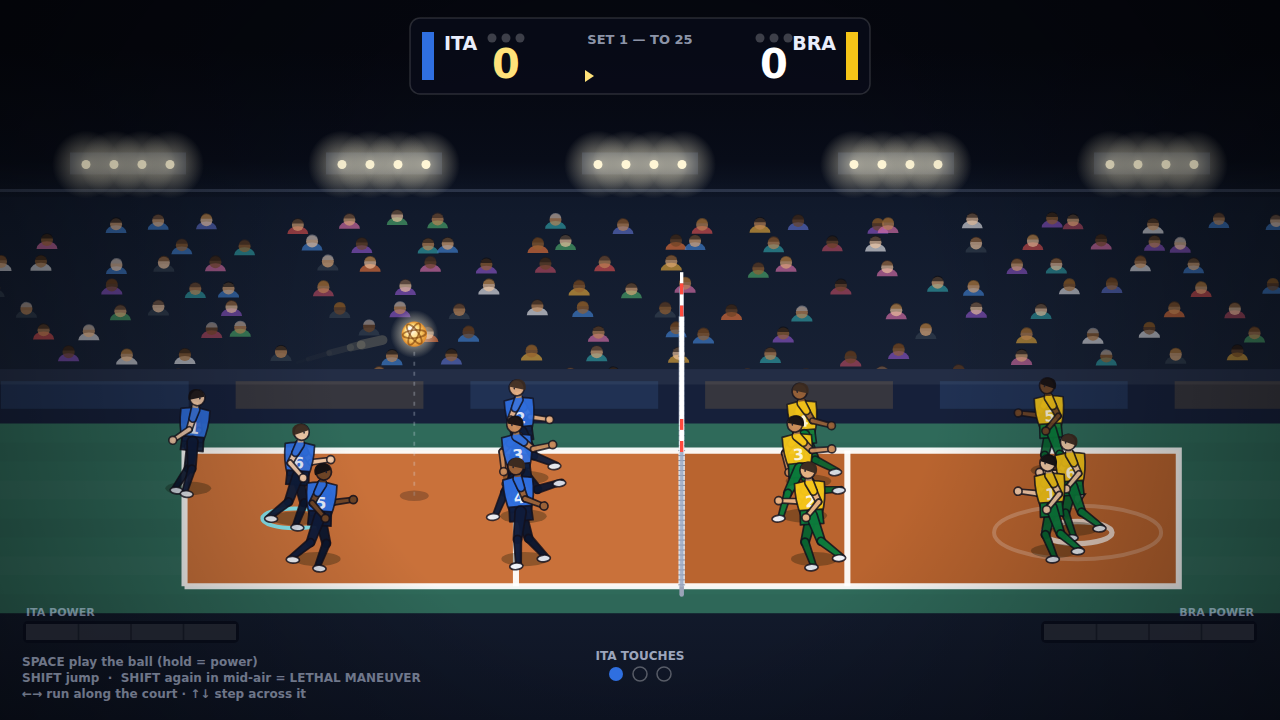
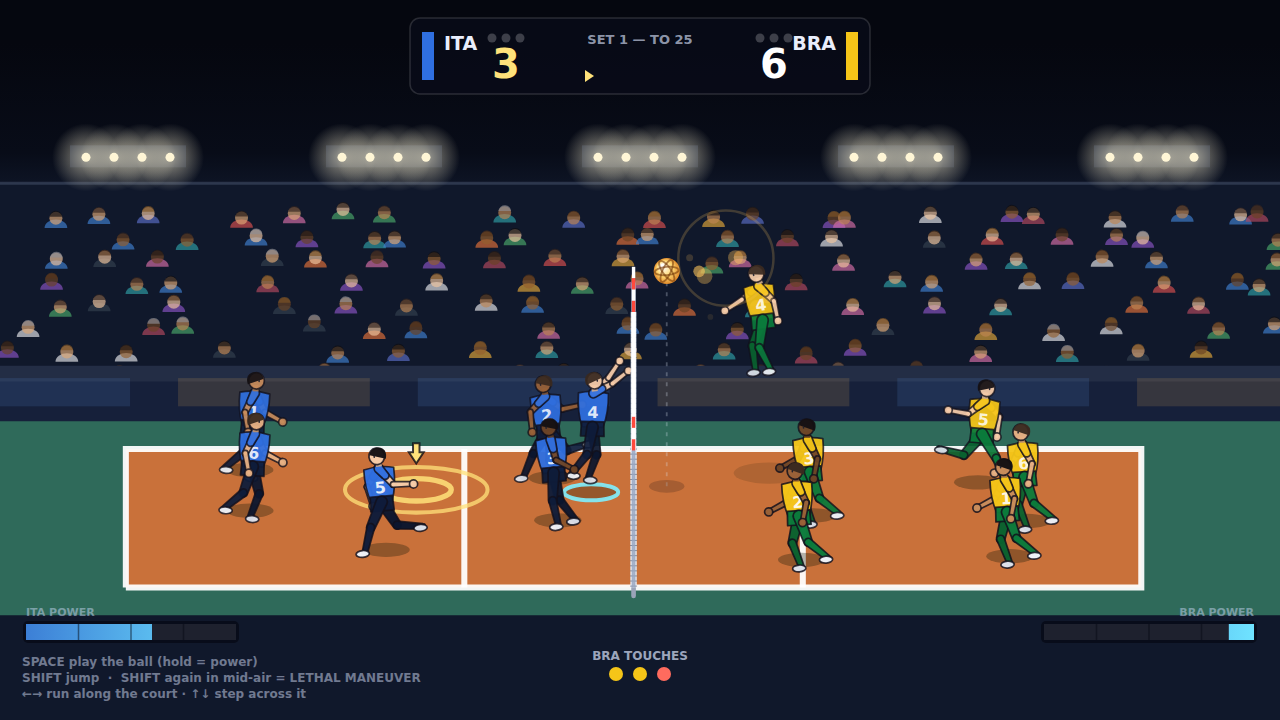
Strip permanent auras, add real timing ring, block poses, feasible jump serve
Round of fixes driven by frame-by-frame review of captured action shots
against the arcade original:

- Ball: no unconditional halo — plain round ball with a white rim; motion
  stretch only above 24 m/s (power drives), never in normal rallies.
- Timing: the landing marker now draws a countdown ring whose radius is
  proportional to time-to-impact and closes continuously onto the landing
  spot, so the player can read when to move, not just where.
- Charge glow only on the active player while actually charging; AI players
  no longer glow constantly.
- Block reads as a block: defensive net jumps set the block animation (both
  world intent and AI), arms straight up at the tape instead of a spike
  wind-up.
- Jump serve is feasible: toss raised to 6.4 m/s, serve split into
  toss/strike stages with serveTossInFlight/serveStrikeReady getters and a
  HIT! cue over the server. Verified end-to-end through real key presses
  (toss, jump, strike -> rally).
- Flat 2D look completed: vignette, background gradients, two-tone court
  and depth shrink removed; single flat court band like the original.
- Softer idle forearms; ball timing back to real gravity.
- New tools/action-shots.ts captures labelled frames of spike cock/hit,
  block and bump through the running game so action poses can't regress
  unseen; docs screenshot refreshed from a real mid-rally frame.

Claude-Session: https://claude.ai/code/session_01H95JHcWRyVB2YjwLduBdEB

diff --git a/tools/action-shots.ts b/tools/action-shots.ts
@@ -1,0 +1,120 @@
+/**
+ * Action-frame capture: drives the real game and screenshots the exact moments
+ * that matter — the spike arch at the apex, the block, the serve toss, and a
+ * human jump serve performed through the actual keys.
+ *
+ * This exists because still frames taken at random moments only ever showed
+ * players standing between actions, which let bad action poses ship unseen.
+ *
+ *   CHROMIUM_PATH=... npx tsx tools/action-shots.ts [outDir]
+ */
+import { chromium } from 'playwright';
+import { createServer } from 'vite';
+import { mkdirSync } from 'node:fs';
+import { resolve } from 'node:path';
+
+const OUT = resolve(process.argv[2] ?? 'action-shots');
+
+interface Snapshot {
+  phase: string;
+  tossInFlight: boolean;
+  strikeReady: boolean;
+  serverAirborne: boolean;
+  airborne: { anim: string; vertVel: number; side: string }[];
+}
+
+async function main(): Promise<void> {
+  mkdirSync(OUT, { recursive: true });
+  const server = await createServer({ server: { port: 5177, strictPort: true } });
+  await server.listen();
+
+  const browser = await chromium.launch({
+    executablePath: process.env.CHROMIUM_PATH,
+    args: ['--no-sandbox', '--use-gl=swiftshader', '--enable-unsafe-swiftshader'],
+  });
+  const page = await browser.newPage({ viewport: { width: 1280, height: 720 } });
+  await page.goto('http://localhost:5177/', { waitUntil: 'networkidle' });
+  await page.waitForTimeout(400);
+  for (let i = 0; i < 4; i++) {
+    await page.keyboard.press('Space');
+    await page.waitForTimeout(360);
+  }
+  await page.waitForFunction(
+    () => (window as unknown as { __sv90?: { world?: { phase: string } } }).__sv90?.world?.phase === 'serve',
+    undefined,
+    { timeout: 8000 },
+  );
+
+  const snap = (): Promise<Snapshot> =>
+    page.evaluate(() => {
+      const w = (window as unknown as { __sv90: { world: any } }).__sv90.world;
+      const server = w.team(w.servingSide).server;
+      return {
+        phase: w.phase,
+        tossInFlight: w.serveTossInFlight,
+        strikeReady: w.serveStrikeReady,
+        serverAirborne: server.airborne,
+        airborne: w
+          .allPlayers()
+          .filter((p: any) => p.airborne)
+          .map((p: any) => ({ anim: p.anim, vertVel: p.vertVel, side: p.side })),
+      };
+    });
+
+  // ---- 1. A human jump serve, through the keys: toss, jump, hold to hit.
+  await page.keyboard.press('Space'); // toss
+  await page.waitForTimeout(180);
+  await page.keyboard.press('ShiftLeft'); // jump
+  await page.waitForTimeout(260);
+  await page.screenshot({ path: `${OUT}/serve-toss-airborne.png` });
+  const midJump = await snap();
+  await page.keyboard.down('Space'); // hit at the first strikeable frame
+  await page.waitForTimeout(350);
+  await page.keyboard.up('Space');
+  const afterServe = await snap();
+  console.log(
+    `jump serve: mid-air=${midJump.serverAirborne} tossUp=${midJump.tossInFlight} ` +
+      `-> phase after=${afterServe.phase} (rally means the serve fired)`,
+  );
+  await page.screenshot({ path: `${OUT}/serve-struck.png` });
+
+  // ---- 2. Watch AI play and snap labelled action frames.
+  const wanted = new Set(['spike-cock', 'spike-hit', 'block', 'bump']);
+  const deadline = Date.now() + 75000;
+  while (wanted.size > 0 && Date.now() < deadline) {
+    const s = await snap();
+    for (const a of s.airborne) {
+      if (wanted.has('spike-cock') && (a.anim === 'jump' || a.anim === 'spike') && Math.abs(a.vertVel) < 1.6) {
+        await page.screenshot({ path: `${OUT}/spike-cock.png` });
+        wanted.delete('spike-cock');
+        console.log('captured spike-cock (airborne near apex)');
+      } else if (wanted.has('spike-hit') && a.anim === 'spike') {
+        await page.screenshot({ path: `${OUT}/spike-hit.png` });
+        wanted.delete('spike-hit');
+        console.log('captured spike-hit');
+      } else if (wanted.has('block') && a.anim === 'block') {
+        await page.screenshot({ path: `${OUT}/block.png` });
+        wanted.delete('block');
+        console.log('captured block');
+      }
+    }
+    if (wanted.has('bump')) {
+      const bumping = await page.evaluate(() => {
+        const w = (window as unknown as { __sv90: { world: any } }).__sv90.world;
+        return w.allPlayers().some((p: any) => p.anim === 'bump' && p.animTime < 0.3);
+      });
+      if (bumping) {
+        await page.screenshot({ path: `${OUT}/bump.png` });
+        wanted.delete('bump');
+        console.log('captured bump');
+      }
+    }
+    await page.waitForTimeout(45);
+  }
+  if (wanted.size) console.log(`not captured in time: ${[...wanted].join(', ')}`);
+
+  await browser.close();
+  await server.close();
+}
+
+main();

diff --git a/src/render/renderer.ts b/src/render/renderer.ts
@@ -187,7 +187,6 @@ export class Renderer {
     for (const d of drawables) d.draw();
 
     this.effects.draw(ctx, cam);
-    this.drawVignette();
     this.drawPowerCoach(world, state.time, state.jumpLabel ?? 'SHIFT');
     if (this.flash > 0) {
       ctx.fillStyle = `rgba(255,236,196,${this.flash})`;
@@ -232,10 +231,12 @@ export class Renderer {
     ctx.ellipse(s.x, s.y, rx, rx * 0.32, 0, 0, Math.PI * 2);
     ctx.stroke();
 
-    // Countdown ring: closes onto the spot as the ball arrives. This is the
-    // timing cue — when the two rings meet, the ball is there.
-    const cr = rx * (3.1 - urgency * 2.12);
-    ctx.globalAlpha = (0.3 + 0.55 * urgency) * (0.75 + 0.25 * Math.sin(this.markerTime * 12.6));
+    // Countdown ring: its radius IS the time to impact, closing continuously
+    // through the whole flight and meeting the landing ellipse exactly as the
+    // ball arrives. That collapse is the "move now" signal.
+    const tti = Math.min(pred.time, 2.2);
+    const cr = rx * (1 + tti * 1.5);
+    ctx.globalAlpha = 0.5 + 0.45 * urgency;
     ctx.lineWidth = Math.max(2, 3 * s.scale);
     ctx.beginPath();
     ctx.ellipse(s.x, s.y, cr, cr * 0.32, 0, 0, Math.PI * 2);
@@ -319,16 +320,6 @@ export class Renderer {
     ctx.scale(1 + stretch, 1 - stretch * 0.32);
     ctx.rotate(-angle);
 
-    // A soft halo and a white rim keep the ball findable against the crowd
-    // band, whose warm heads share its hue at almost its size.
-    const glow = ctx.createRadialGradient(0, 0, r, 0, 0, r * 1.9);
-    glow.addColorStop(0, 'rgba(255,244,214,0.4)');
-    glow.addColorStop(1, 'rgba(255,244,214,0)');
-    ctx.fillStyle = glow;
-    ctx.beginPath();
-    ctx.arc(0, 0, r * 1.9, 0, Math.PI * 2);
-    ctx.fill();
-
     const grad = ctx.createRadialGradient(-r * 0.35, -r * 0.4, r * 0.1, 0, 0, r);
     grad.addColorStop(0, '#ffffff');
     grad.addColorStop(0.55, this.powerTrail > 0 ? '#ffb040' : '#ffd873');
@@ -375,6 +366,23 @@ export class Renderer {
     const ctx = this.ctx;
     const cam = this.camera;
     const team = world.humanTeam;
+
+    // Serve coaching: once the toss is up, say when to swing.
+    if (team && world.phase === 'serve' && world.serveTossInFlight) {
+      const server = world.team(team.side).server;
+      const s = cam.project(server.pos.x, server.pos.y, server.height + 2.4);
+      ctx.save();
+      ctx.font = '900 24px "Arial Black", system-ui, sans-serif';
+      ctx.textAlign = 'center';
+      ctx.lineWidth = 6;
+      ctx.lineJoin = 'round';
+      ctx.strokeStyle = 'rgba(6,8,18,0.9)';
+      const label = world.serveStrikeReady ? 'HIT!' : '...';
+      ctx.strokeText(label, s.x, s.y);
+      ctx.fillStyle = world.serveStrikeReady ? '#ffe27a' : 'rgba(230,238,255,0.8)';
+      ctx.fillText(label, s.x, s.y);
+      ctx.restore();
+    }
 
     if (team?.powerReady && world.phase === 'rally') {
       const p = team.active;
@@ -426,15 +434,7 @@ export class Renderer {
     }
   }
 
-  private drawVignette(): void {
-    const { viewWidth: w, viewHeight: h } = this.camera;
-    const ctx = this.ctx;
-    const grad = ctx.createRadialGradient(w / 2, h / 2, h * 0.42, w / 2, h / 2, h * 1.05);
-    grad.addColorStop(0, 'rgba(0,0,0,0)');
-    grad.addColorStop(1, 'rgba(0,0,0,0.45)');
-    ctx.fillStyle = grad;
-    ctx.fillRect(0, 0, w, h);
-  }
+
 }
 
 const POINT_LABEL: Record<string, string> = {

diff --git a/src/core/world.ts b/src/core/world.ts
@@ -131,6 +131,22 @@ export class World {
   private serveStage: 'hold' | 'toss' = 'hold';
   private tossedAt = 0;
 
+  /** True while a served toss is in the air, for the HUD's timing cue. */
+  get serveTossInFlight(): boolean {
+    return this.phase === 'serve' && this.serveStage === 'toss';
+  }
+
+  /** True in the window where a press would strike the toss. */
+  get serveStrikeReady(): boolean {
+    if (!this.serveTossInFlight) return false;
+    const server = this.team(this.servingSide).server;
+    return (
+      this.phaseTimer - this.tossedAt > 0.22 &&
+      (server.airborne || this.ball.vel.z < 1.2) &&
+      canReach(server, this.ball)
+    );
+  }
+
   constructor(config: MatchConfig) {
     this.config = config;
     this.rng = new Rng(config.seed ?? 0x51ce5eed);
@@ -242,8 +258,12 @@ export class World {
       if (cmd.jumpPressed) {
         if (p.airborne) {
           if (this.team(p.side).powerReady) p.specialArmed = true;
-        } else {
-          p.jump();
+        } else if (p.jump()) {
+          // A defensive jump at the net is a block and must read as one —
+          // both arms straight up — not as a spike wind-up.
+          if (this.possession !== p.side && Math.abs(p.pos.y) < 2.2) {
+            p.setAnim('block');
+          }
         }
       }
       p.step(dt, cmd.moveX, cmd.moveY);
@@ -333,13 +353,7 @@ export class World {
     // Ball in the air. The short delay stops the toss press itself from
     // doubling as the hit; requiring the ball to have stopped rising keeps the
     // contact at the top of the arc, where a serve is actually struck.
-    const sinceToss = this.phaseTimer - this.tossedAt;
-    const strikeable =
-      sinceToss > 0.25 &&
-      (this.ball.vel.z < 1.2 || server.airborne) &&
-      canReach(server, this.ball);
-
-    if (cmd.actionPressed && strikeable) {
+    if (cmd.actionPressed && this.serveStrikeReady) {
       // Contact height decides the serve. 1.8 m is roughly a standing chest
       // strike; full jumping reach pushes the charge towards 1.
       const charge = clamp((this.ball.pos.z - 1.8) / 1.3, 0, 1);

diff --git a/src/render/arena.ts b/src/render/arena.ts
@@ -10,7 +10,6 @@ import { Camera } from './camera';
 
 const LINE = 'rgba(255,255,255,0.94)';
 const COURT_NEAR = '#c9713a';
-const COURT_FAR = '#b9642f';
 const SURROUND = '#2f6a5a';
 
 interface Spectator {
@@ -95,12 +94,9 @@ export class Arena {
   drawBackground(ctx: CanvasRenderingContext2D, cam: Camera, time: number): void {
     const { viewWidth: w, viewHeight: h } = cam;
 
-    const hall = ctx.createLinearGradient(0, 0, 0, h);
-    hall.addColorStop(0, '#070a16');
-    hall.addColorStop(0.3, '#111a2c');
-    hall.addColorStop(0.62, '#1a2438');
-    hall.addColorStop(1, '#0d1322');
-    ctx.fillStyle = hall;
+    // Flat fills, deliberately: gradients read as a lit 3D scene, and this
+    // game is meant to read as a drawn 2D one.
+    ctx.fillStyle = '#10182b';
     ctx.fillRect(0, 0, w, h);
 
     this.drawCrowd(ctx, cam, time);
@@ -250,19 +246,6 @@ export class Arena {
 
     fillQuad(ctx, cam, [[-outX, -outY], [outX, -outY], [outX, outY], [-outX, outY]], SURROUND);
 
-    // Subtle sheen bands along the hall floor, the way a lit sports surface
-    // catches the ceiling lights.
-    for (let i = 0; i < 5; i++) {
-      const x0 = -outX + (i * (2 * outX)) / 5;
-      const x1 = x0 + outX / 5;
-      fillQuad(
-        ctx,
-        cam,
-        [[x0, -outY], [x1, -outY], [x1, outY], [x0, outY]],
-        i % 2 ? 'rgba(255,255,255,0.018)' : 'rgba(0,0,0,0.02)',
-      );
-    }
-
     fillQuad(
       ctx,
       cam,
@@ -283,7 +266,7 @@ export class Arena {
         [COURT_HALF_WIDTH, COURT_HALF_LENGTH],
         [-COURT_HALF_WIDTH, COURT_HALF_LENGTH],
       ],
-      COURT_FAR,
+      COURT_NEAR,
     );
 
     this.drawLines(ctx, cam);

diff --git a/src/render/players.ts b/src/render/players.ts
@@ -46,7 +46,7 @@ const pose = (
 const POSES: Record<string, Pose> = {
   // Volleyball ready stance: knees flexed, weight forward, hands ready in
   // front at hip height, feet staggered.
-  idle: pose(0.42, 0.22, [0.62, -1.15], [-0.42, -1.2], [0.3, 0.6], [-0.28, 0.55], -0.06),
+  idle: pose(0.42, 0.22, [0.55, -0.6], [-0.4, -0.65], [0.3, 0.6], [-0.28, 0.55], -0.06),
   // Sprint: high knee lift, elbows pumping at ninety degrees, torso driving.
   run: pose(0.2, 0.3, [1.0, -0.95], [-0.95, -0.95], [0.8, 0.2], [-0.6, 1.2], 0.04),
   // Takeoff: both arms swinging up, legs tucking.
@@ -376,8 +376,10 @@ export function drawPlayer(
   }
   ctx.restore();
 
-  // Charge glow on the hitting hand.
-  if (p.charge > 0.15) {
+  // Charge glow on the hitting hand — only for the player the human is
+  // steering. The AI holds its button constantly while setting up contacts,
+  // and drawing its charge wrapped half the court in a permanent blue aura.
+  if (opts.active && p.charge > 0.15) {
     const { ex, ey } = limbPoints(
       0,
       shoulderY,

diff --git a/src/core/ai.ts b/src/core/ai.ts
@@ -359,8 +359,9 @@ export class TeamBrain {
     const timing = this.rng.range(0, 1) < 0.5 + this.difficulty * 0.25;
 
     if (!p.airborne && p.canAct && attackerFalling && aligned && timing) {
-      if (this.stateOf(p).reactionDelay <= 0) {
-        p.jump();
+      if (this.stateOf(p).reactionDelay <= 0 && p.jump()) {
+        // Read as a block from the first frame of the jump.
+        p.setAnim('block');
         this.stateOf(p).reactionDelay = this.latency(p);
       }
     }

diff --git a/src/core/rules.ts b/src/core/rules.ts
@@ -61,7 +61,7 @@ export const MIN_LEAD = 2;
 
 /** Upward speed of the serve toss. High enough that a jumping server meets
  *  the ball near full reach — which is what makes a jump serve possible. */
-export const TOSS_SPEED = 5.6;
+export const TOSS_SPEED = 6.4;
 
 /** Fixed simulation timestep (120 Hz) — rendering interpolates between steps. */
 export const FIXED_DT = 1 / 120;

diff --git a/src/render/camera.ts b/src/render/camera.ts
@@ -34,7 +34,7 @@ const DEPTH_RISE = 15;
  * How much smaller the far sideline is drawn than the near one. Applied to
  * sprite size only, never to position, so court lines stay exactly parallel.
  */
-const DEPTH_SHRINK = 0.05;
+const DEPTH_SHRINK = 0;
 
 /**
  * Orthographic side-on camera.
